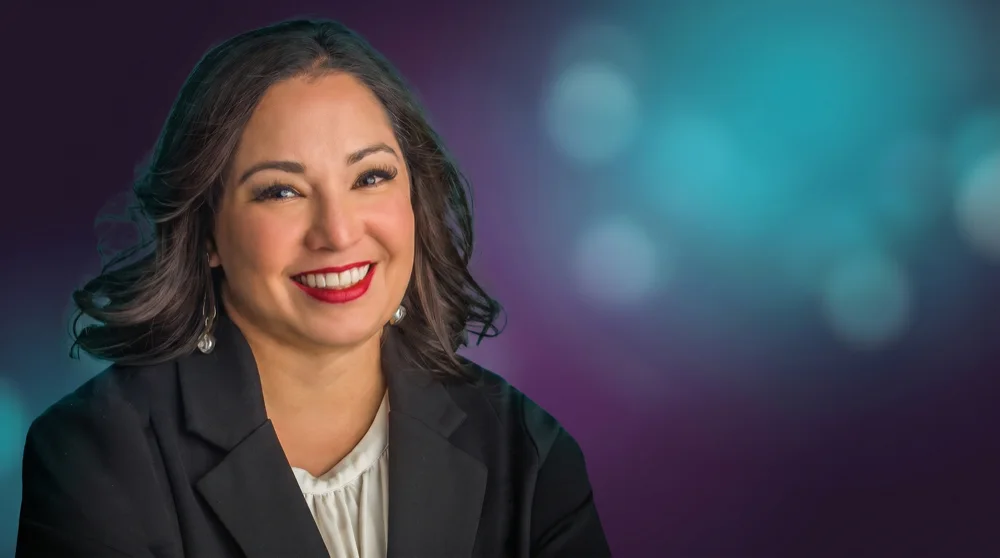
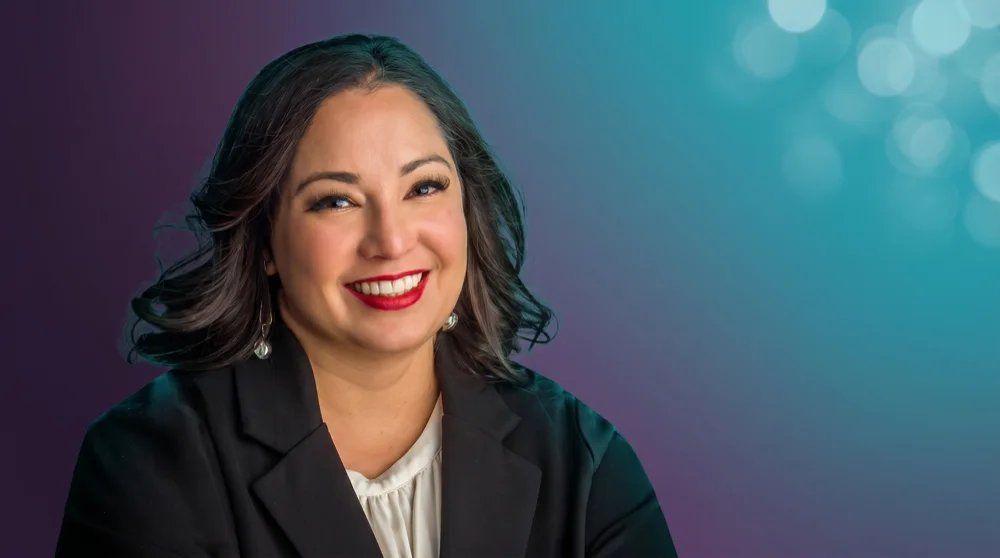
BMC video testimonials: refresh Antonia Roybal-Mack's poster with the new still (cache-bust v=2).

diff --git a/bmc.html b/bmc.html
@@ -632,7 +632,7 @@
             allow="autoplay; fullscreen; picture-in-picture; clipboard-write; encrypted-media; web-share"
             allowfullscreen
             title="Antonia Roybal-Mack &mdash; BMC Testimonial"></iframe>
-          <img class="t-video-poster" src="antonia_roybal_mack_thumb.webp" alt="Antonia Roybal-Mack" width="1000" height="558" decoding="async" />
+          <img class="t-video-poster" src="antonia_roybal_mack_thumb.webp?v=2" alt="Antonia Roybal-Mack" width="1000" height="558" decoding="async" />
           <button class="t-video-toggle" type="button" aria-label="Play or pause Antonia Roybal-Mack&rsquo;s testimonial">
             <span class="t-play t-play--lg" aria-hidden="true"><svg viewBox="0 0 24 24" fill="#0a0a0a"><polygon points="6,4 20,12 6,20"/></svg></span>
             <span class="t-pause" aria-hidden="true"><svg viewBox="0 0 24 24" fill="currentColor"><rect x="6" y="5" width="4" height="14" rx="1"/><rect x="14" y="5" width="4" height="14" rx="1"/></svg></span>
